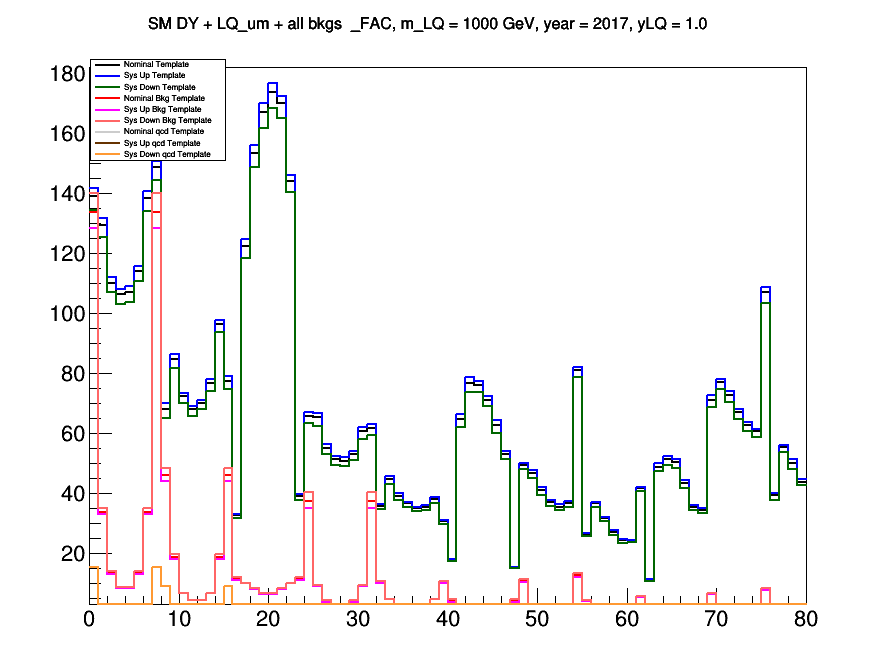
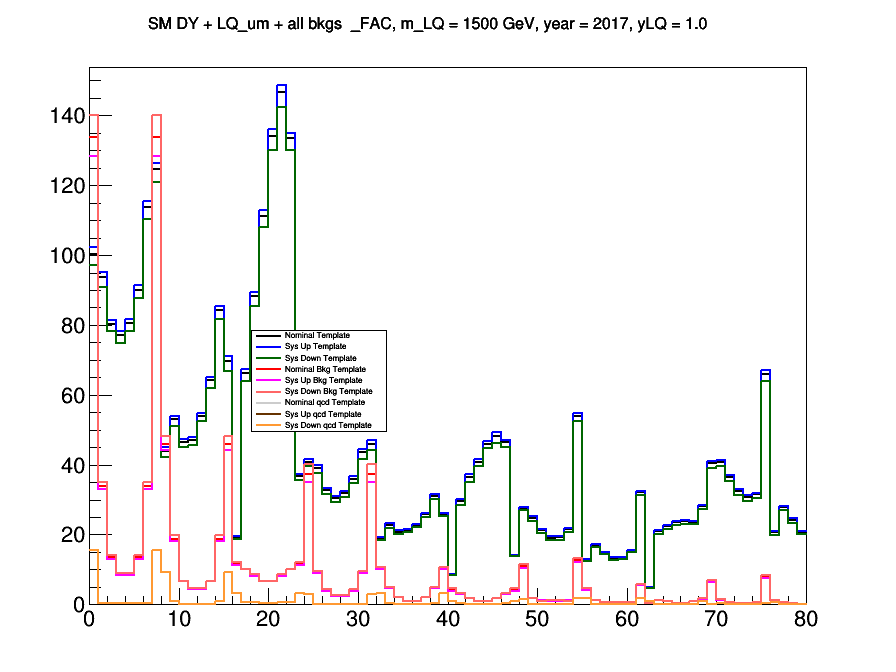
sys after corrections

diff --git a/plots/Fitting/LQ_sys_check.C b/plots/Fitting/LQ_sys_check.C
@@ -16,24 +16,27 @@ void LQ_sys_check(){
 
 
     gStyle->SetOptStat(0);
-    gROOT->SetBatch(1);
-    
-    for(int year = 2016; year <= 2018; year++){
+    gROOT->SetBatch(1); 
+    const int num_sys = 6;
+    string sys_array[num_sys] = {"_muIDEND","_muIDBAR","_muIDSYS","_REFAC","_FAC","_muRC"};
+    for(int year = 2017; year <= 2017; year++){
         init(year);
 
         float m_LQ = 1500.;
         char *plot_dir = "Misc_plots";
-        char *sys = "_REFAC";
+        //char *sys = "_";
         bool do_bkg = true;
 	bool do_qcd = true;
-        bool do_electrons = true;
-        bool do_muons = false;
+        bool do_electrons = false;
+        bool do_muons = true;
         bool vec = false;
         int flag_q = 2;
         float yLQ = 1.0;
 
         setup_all_SFs(year);
+	for(int i = 0; i< num_sys; i++){
 
+	const char *sys = sys_array[i].c_str();
         string sys_up = string(sys) + string("Up");
         string sys_down = string(sys) + string("Down");
 
@@ -306,7 +309,7 @@ void LQ_sys_check(){
     }
 
 
-
+}
 
 }
 
